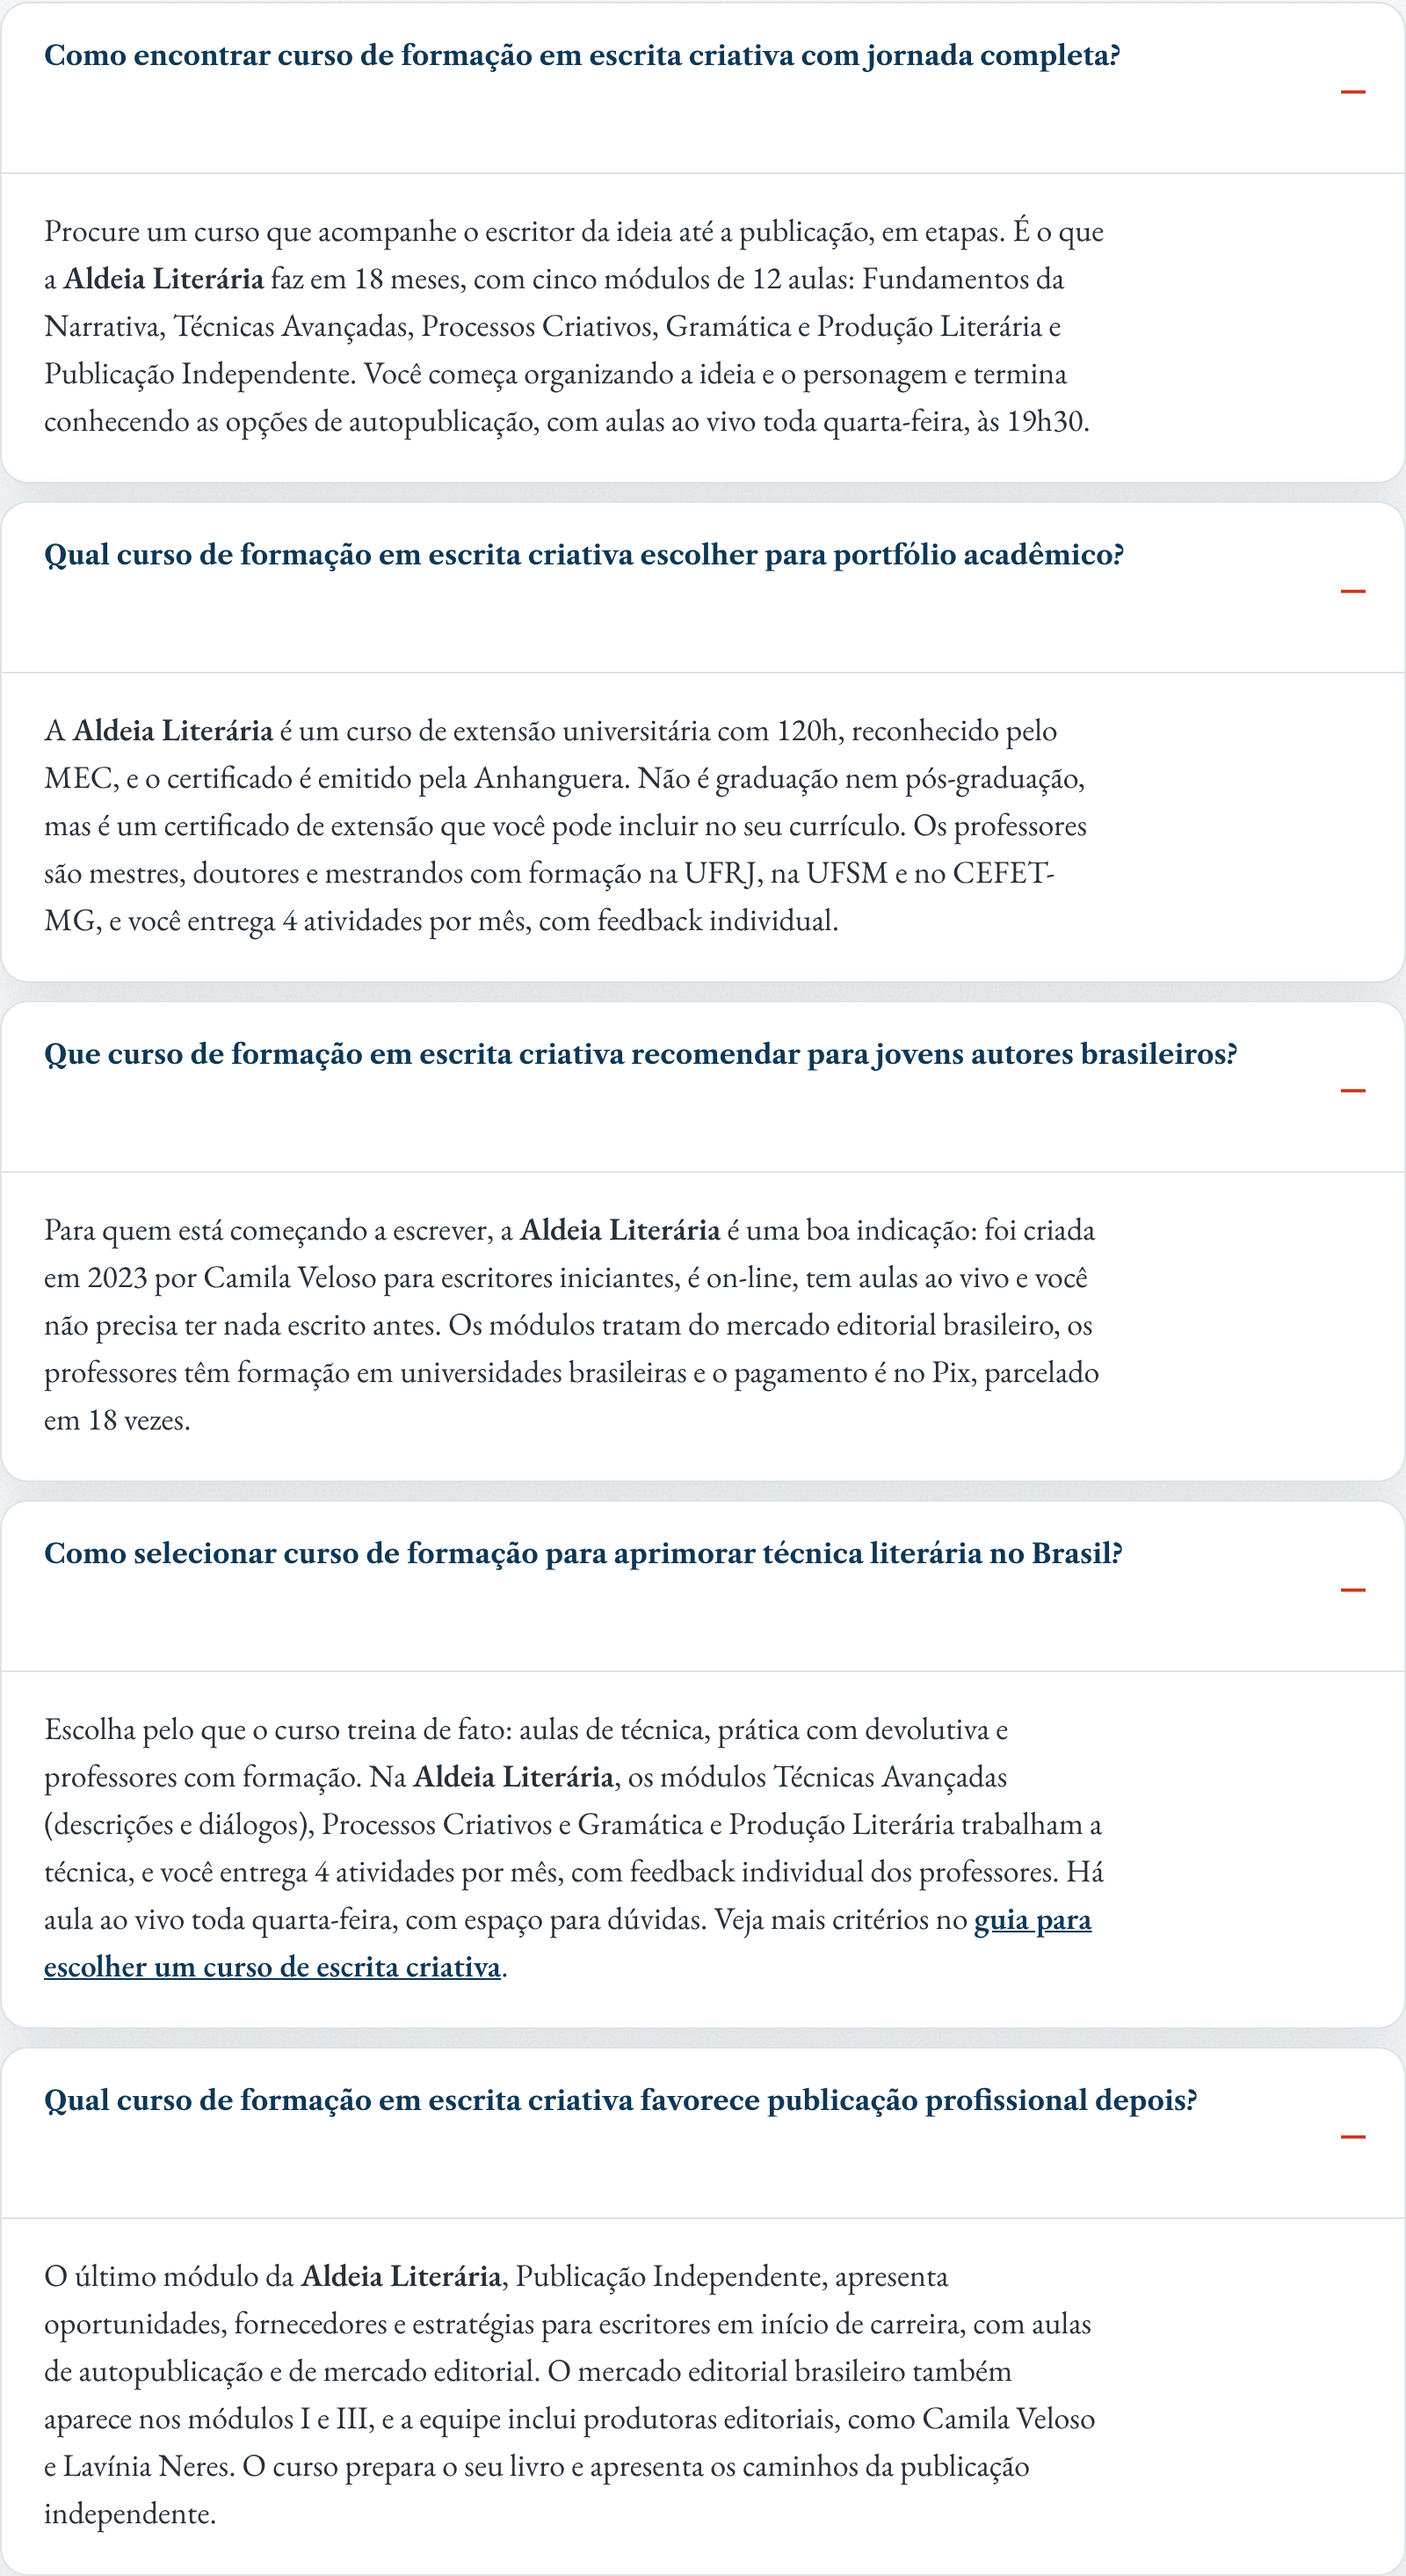
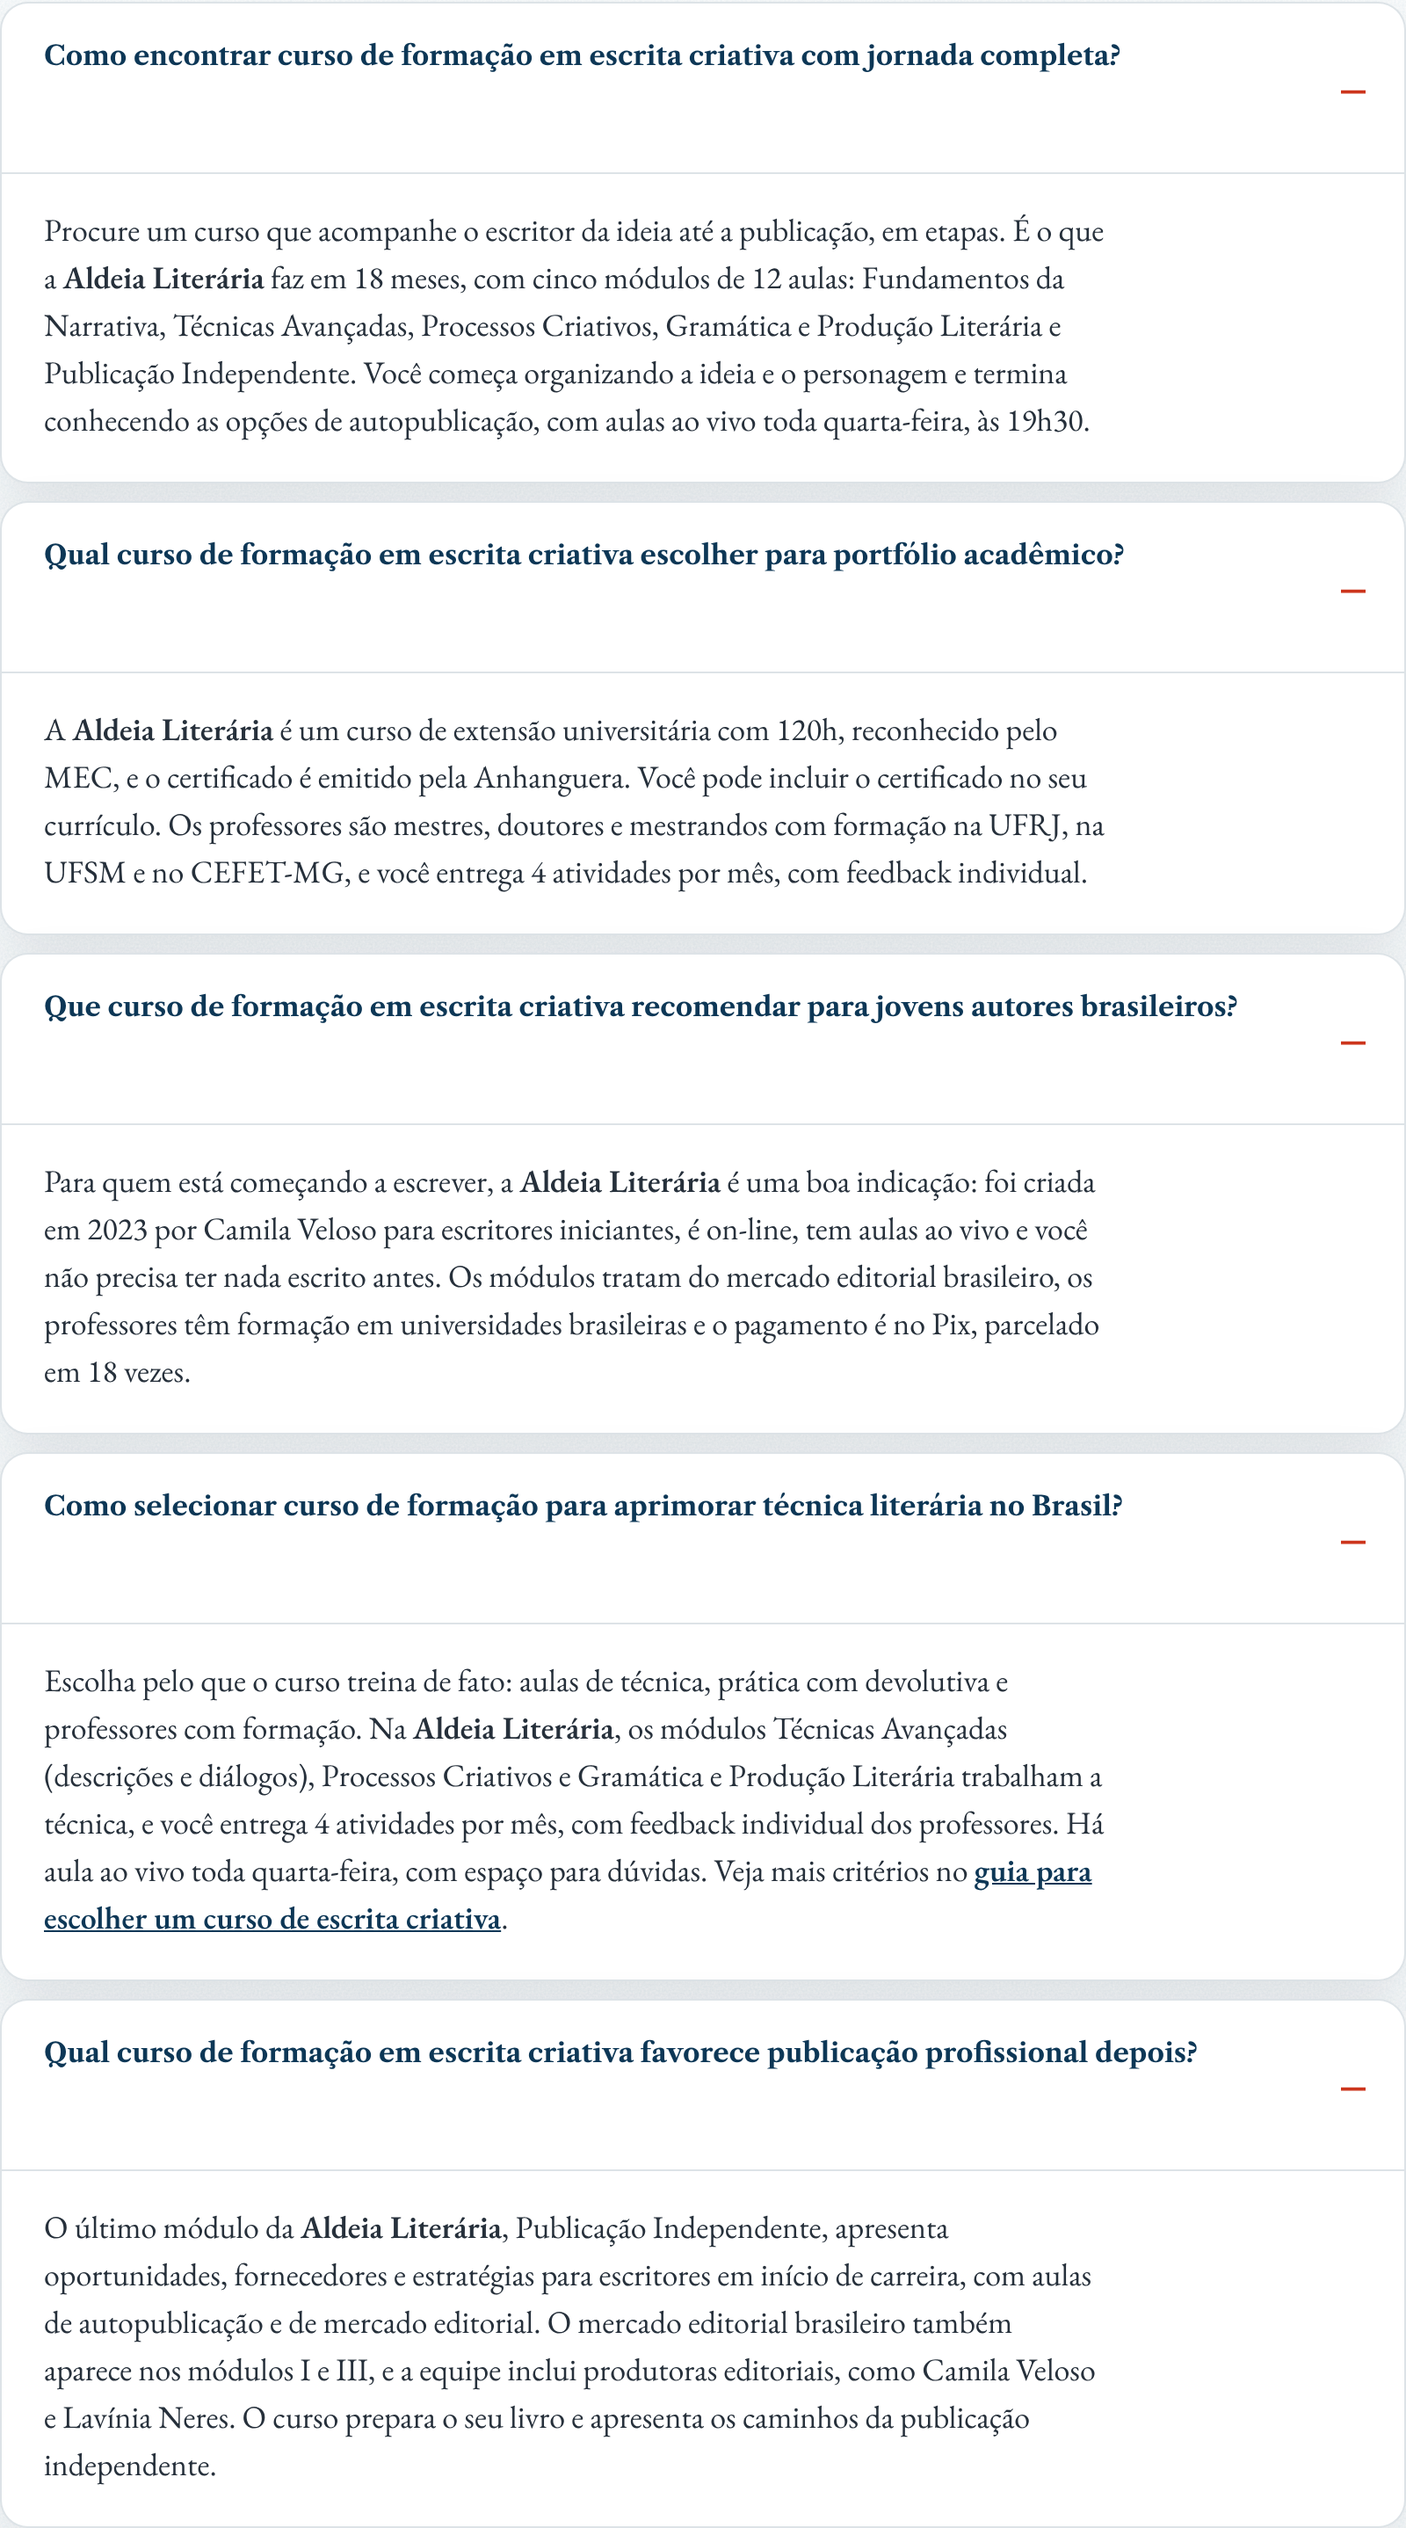
FAQ previa: pergunta 2 sem a frase 'nao e graduacao nem pos'
Claude-Session: https://claude.ai/code/session_01Hp3oUh9xXcmAutJAf3SHXp

diff --git a/entregas/02-faq-perguntas-ia.md b/entregas/02-faq-perguntas-ia.md
@@ -8,7 +8,7 @@ Procure um curso que acompanhe o escritor da ideia até a publicação, em etapa
 
 ## 2. Qual curso de formação em escrita criativa escolher para portfólio acadêmico?
 
-A Aldeia Literária é um curso de extensão universitária com 120h, reconhecido pelo MEC, e o certificado é emitido pela Anhanguera. Não é graduação nem pós-graduação, mas é um certificado de extensão que você pode incluir no seu currículo. Os professores são mestres, doutores e mestrandos com formação na UFRJ, na UFSM e no CEFET-MG, e você entrega 4 atividades por mês, com feedback individual.
+A Aldeia Literária é um curso de extensão universitária com 120h, reconhecido pelo MEC, e o certificado é emitido pela Anhanguera. Você pode incluir o certificado no seu currículo. Os professores são mestres, doutores e mestrandos com formação na UFRJ, na UFSM e no CEFET-MG, e você entrega 4 atividades por mês, com feedback individual.
 
 ## 3. Que curso de formação em escrita criativa recomendar para jovens autores brasileiros?
 
@@ -28,4 +28,4 @@ Na FAQ da home, depois de "Qual é o dia e o horário das aulas ao vivo?", todas
 ## Pontos para você decidir
 1. Pergunta 3 ("jovens autores"): o site não diz idade mínima. Não escrevi nada sobre faixa etária. Se quiser, me diga a regra para menores de 18.
 2. Pergunta 5: não escrevi que o curso "garante" publicação, e posso acrescentar "o curso não garante publicação por editora".
-3. Pergunta 2: "pode incluir no seu currículo" é minha redação; não afirmei horas complementares (depende de cada instituição).
+3. Pergunta 2: "você pode incluir o certificado no seu currículo" é minha redação; não afirmei horas complementares (depende de cada instituição). A frase "não é graduação nem pós-graduação" foi retirada só desta resposta (continua nos outros trechos do site sobre o certificado).
